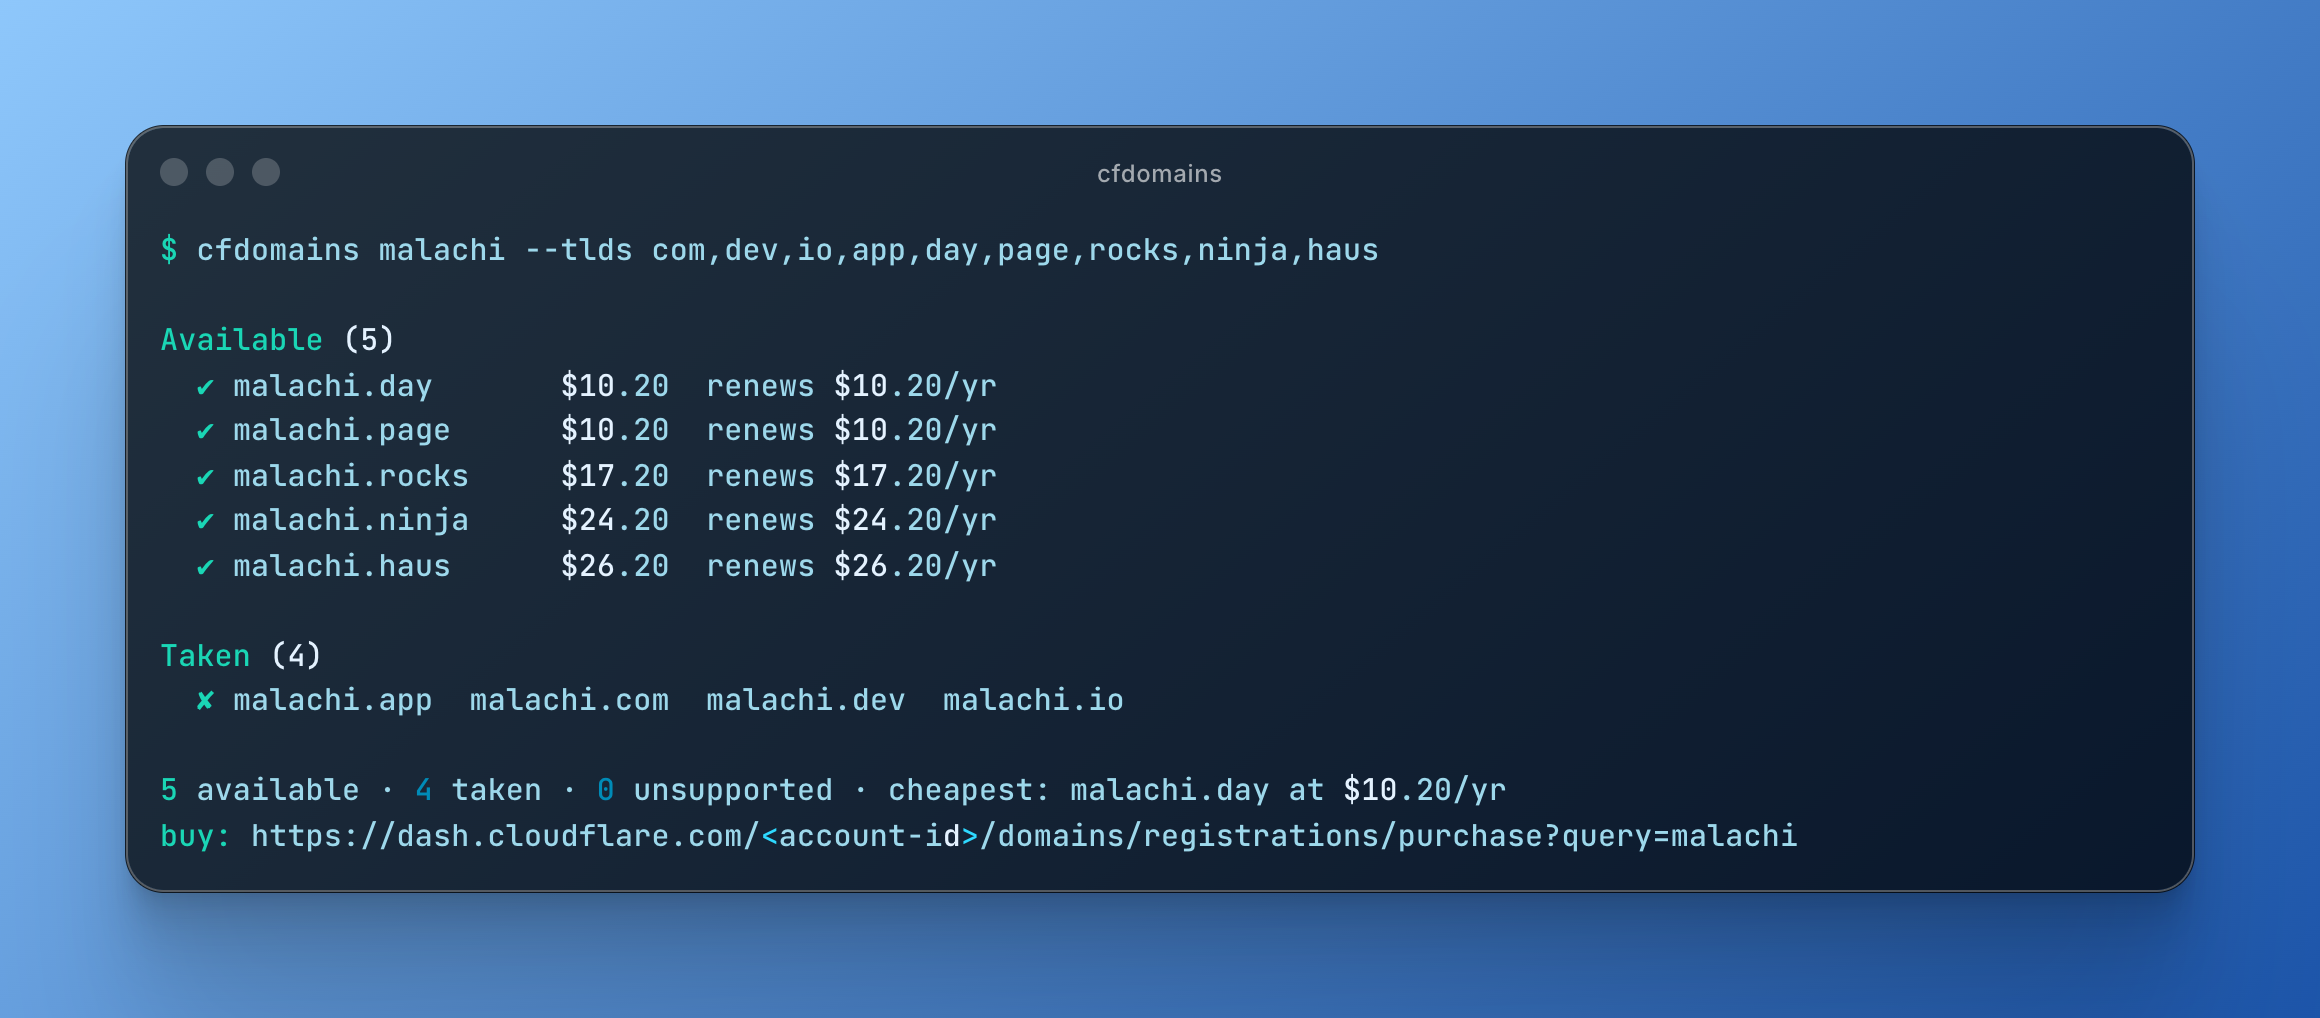
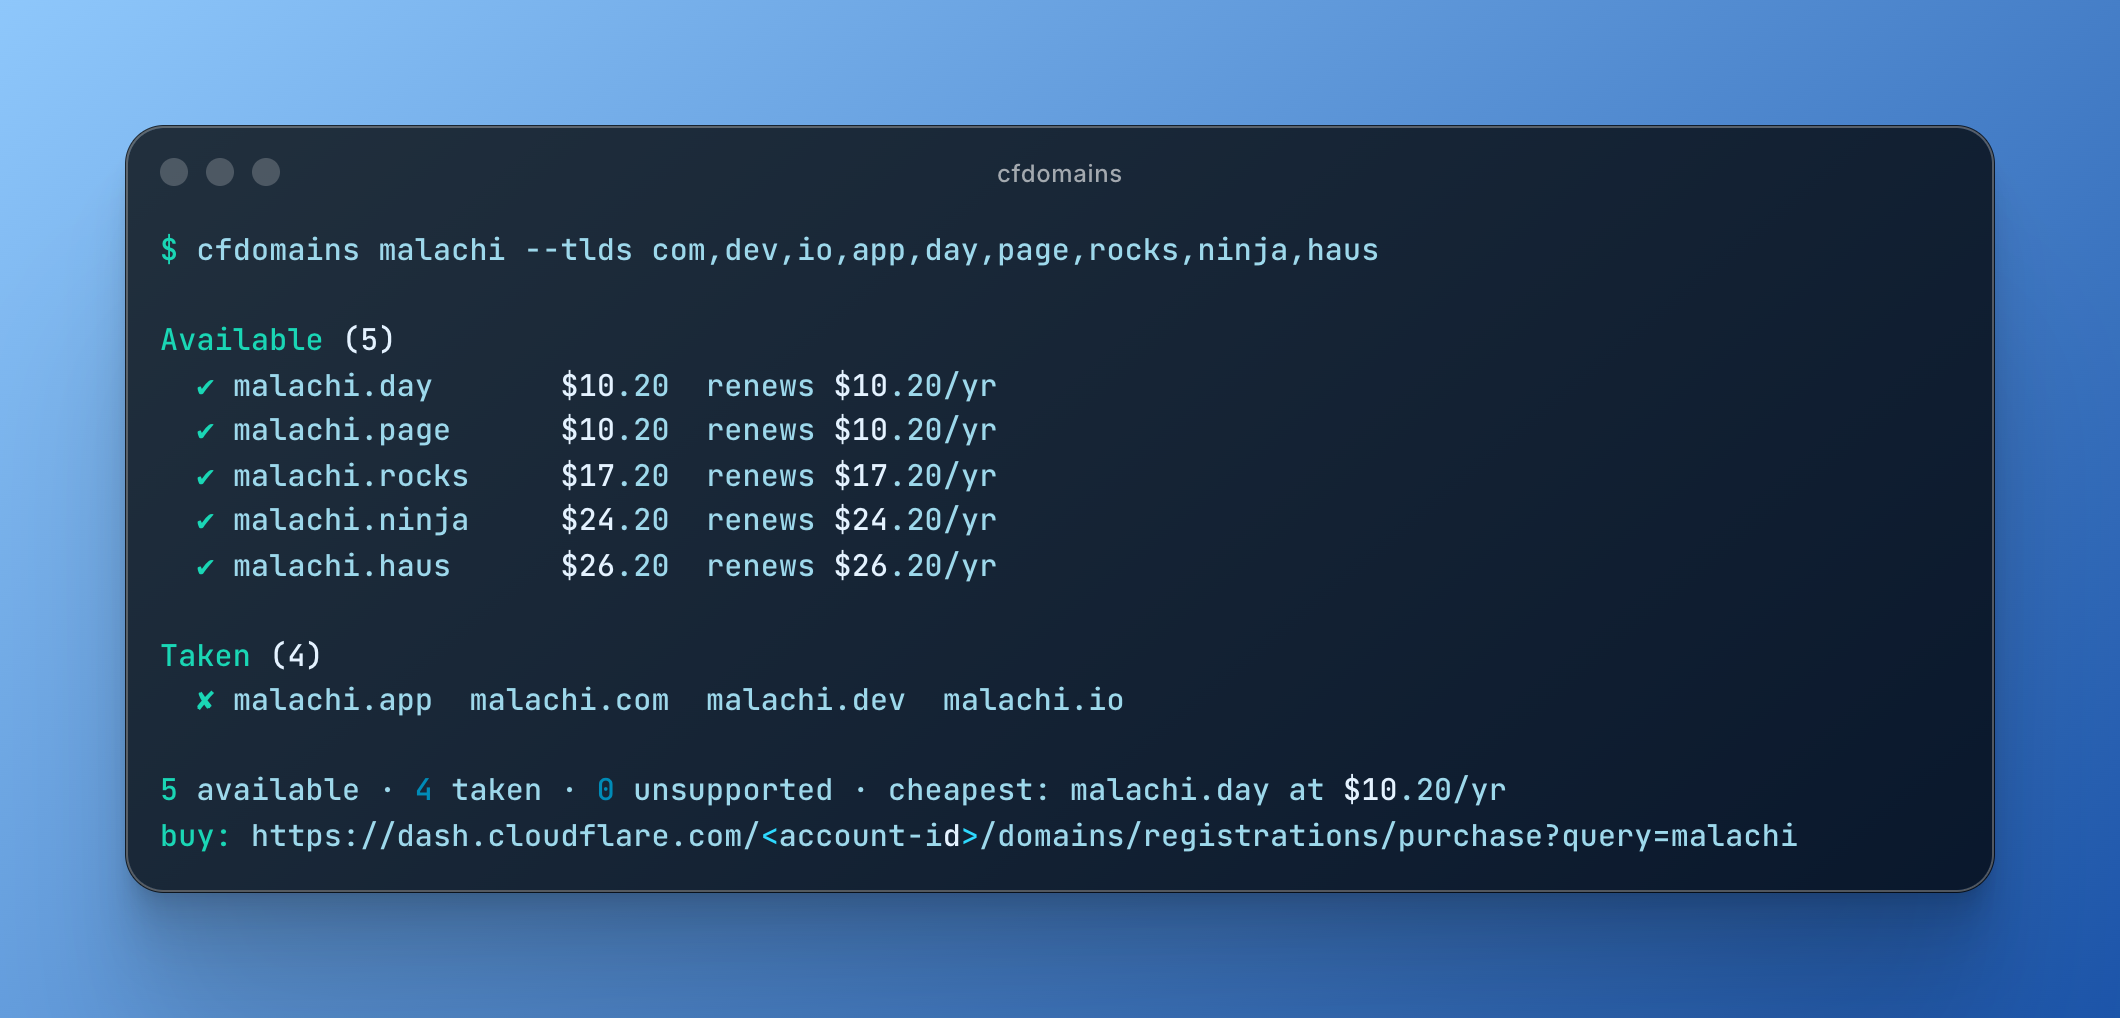
Trim sweep screenshot frames to 1060px

Changed region(s): [[0.0311, 0.1218, 0.8406, 0.8831], [0.934, 0.1218, 0.9651, 0.8831], [0.467, 0.1523, 0.5292, 0.1827]]

diff --git a/scripts/screenshots.ts b/scripts/screenshots.ts
@@ -24,7 +24,7 @@ const shots: ReadonlyArray<Shot> = [
     file: "docs/fullsweep.png",
     title: "cfdomains",
     language: "shell",
-    width: 1160,
+    width: 1060,
     code: [
       "$ cfdomains malachi",
       "",
@@ -54,7 +54,7 @@ const shots: ReadonlyArray<Shot> = [
     file: "docs/sweep.png",
     title: "cfdomains",
     language: "shell",
-    width: 1160,
+    width: 1060,
     code: [
       "$ cfdomains malachi --tlds com,dev,io,app,day,page,rocks,ninja,haus",
       "",
